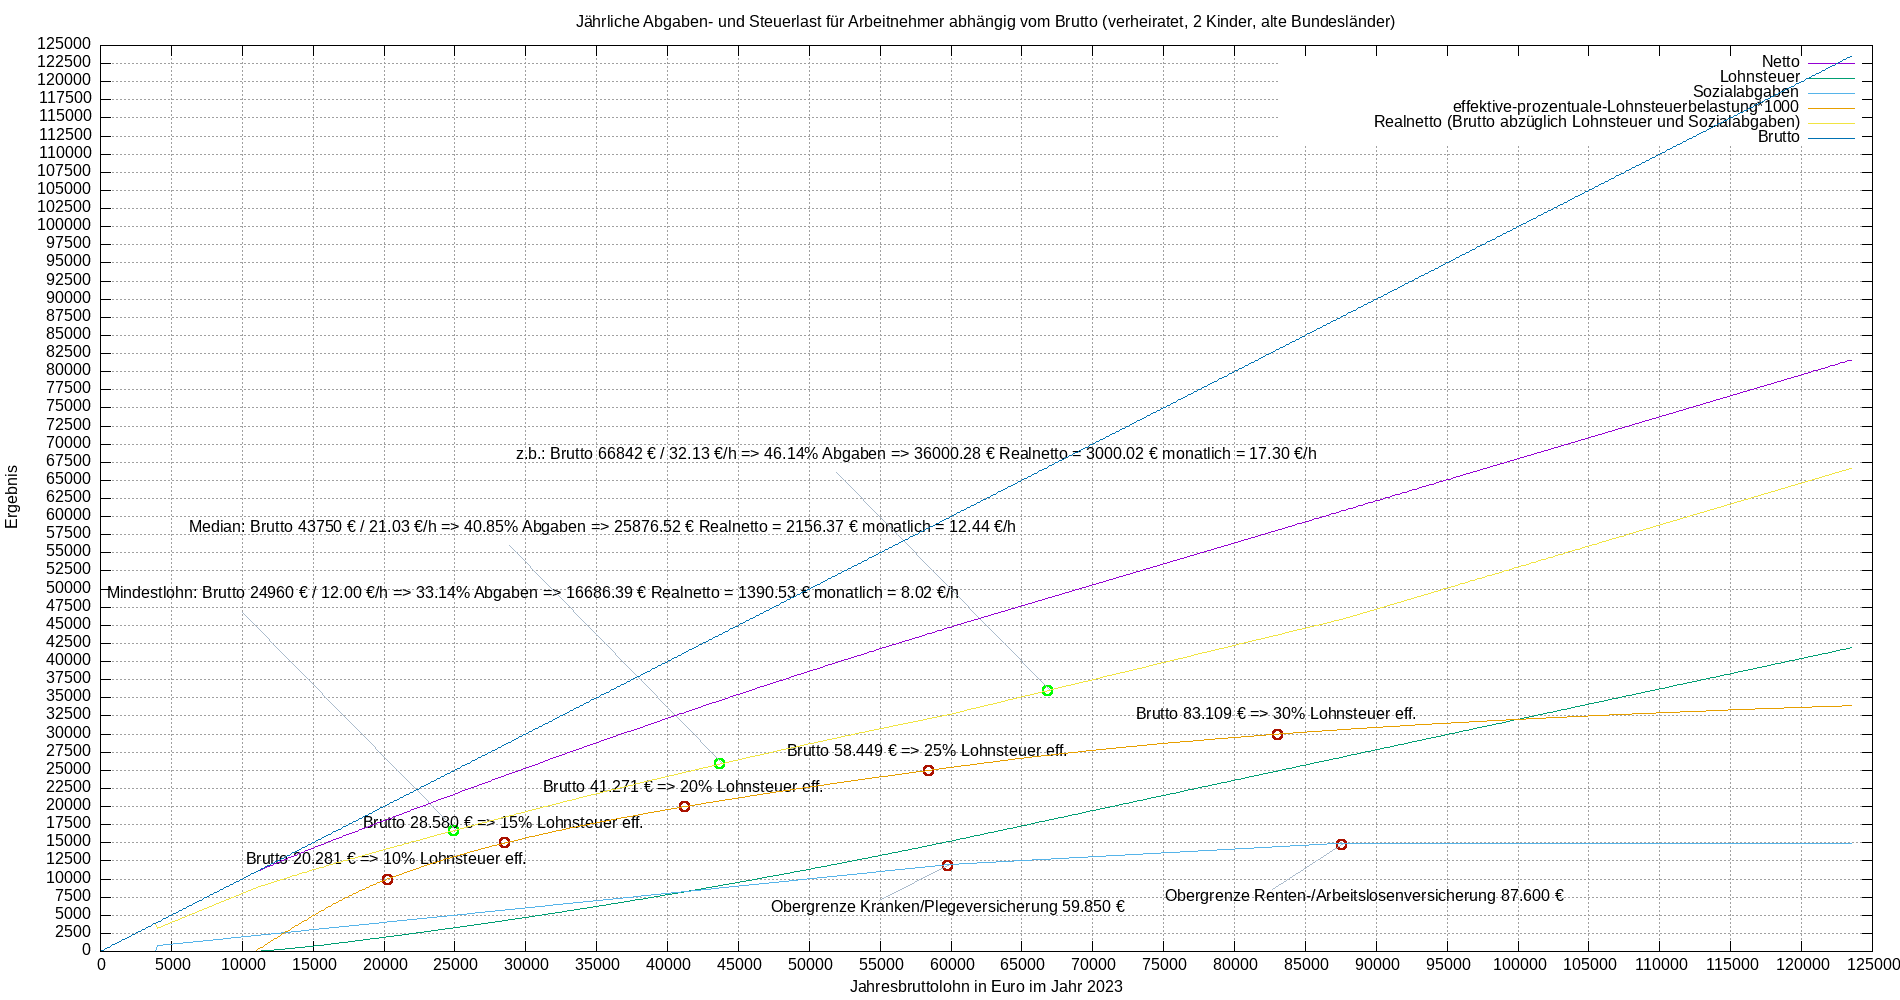
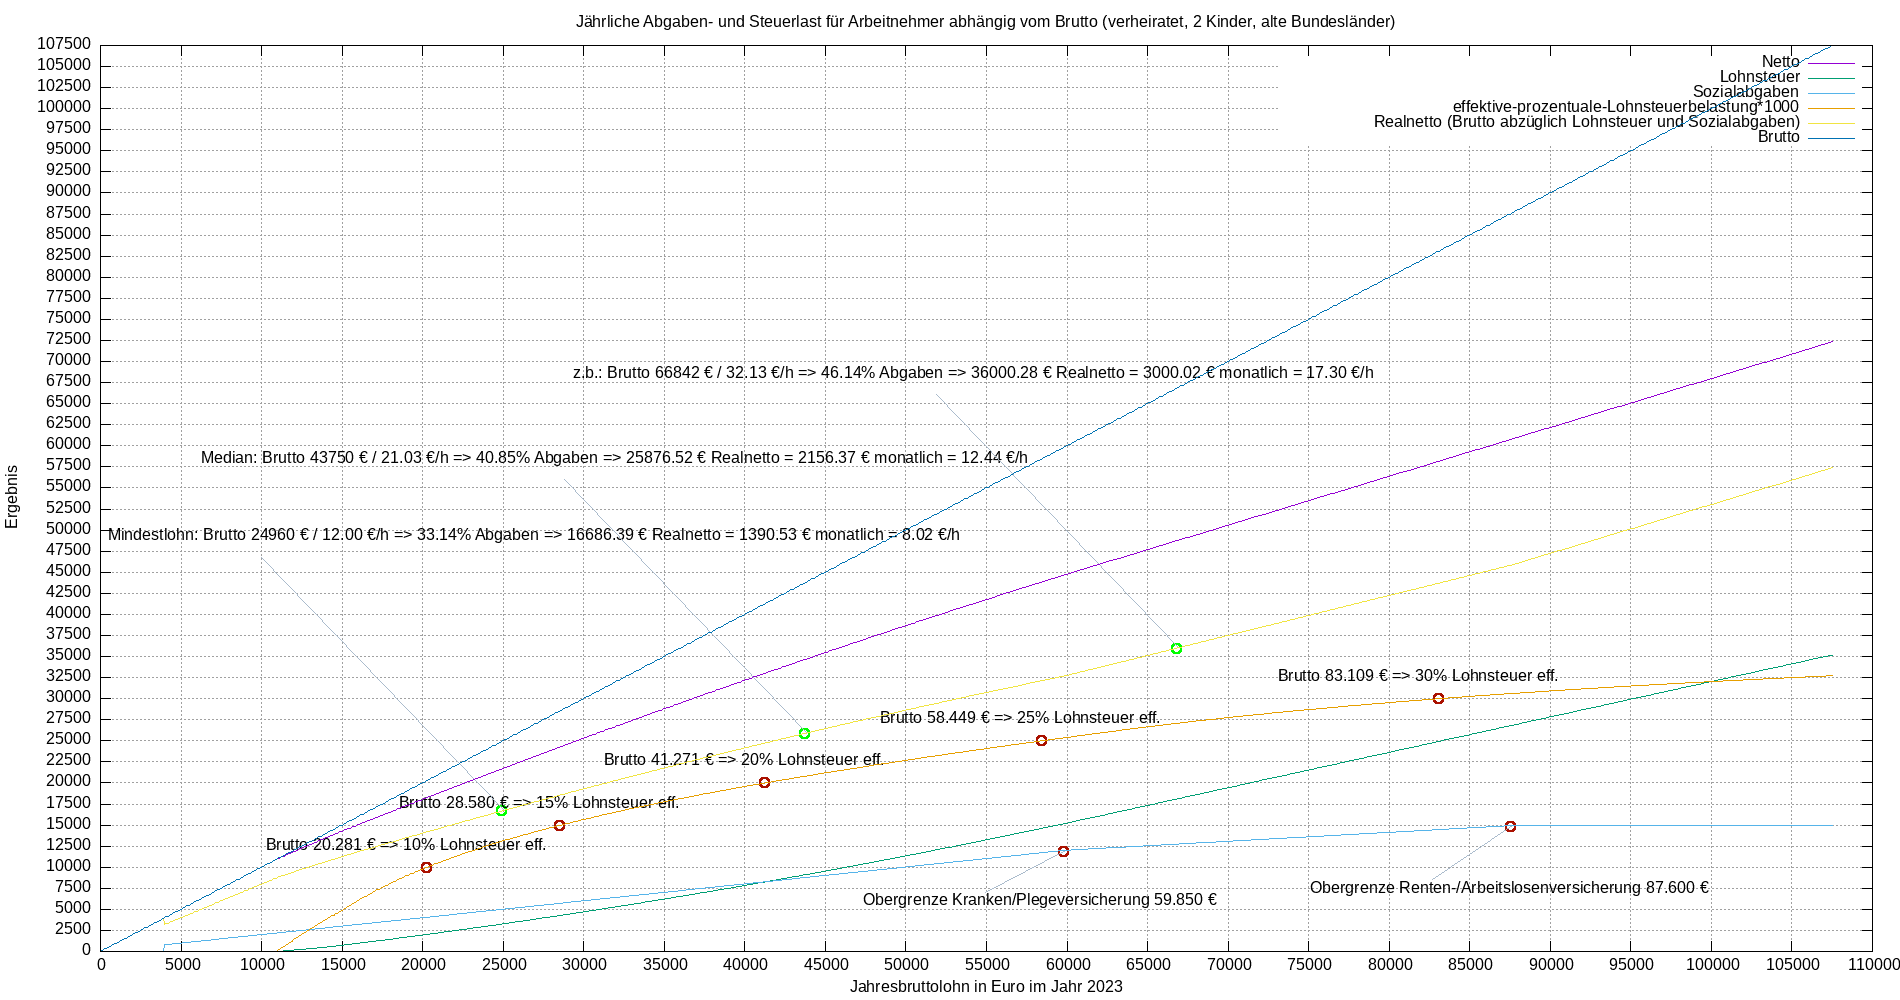
man sieht die wesentlichen details mit plot bis 107500

diff --git a/README.md b/README.md
@@ -1,6 +1,6 @@
 # Steuerlast in 2023
 ```
-$ ./calc.sh 2023 123500 100
+$ ./calc.sh 2023 107500 100
 ...
 see 'all.csv' and 'all.png'
 ```
